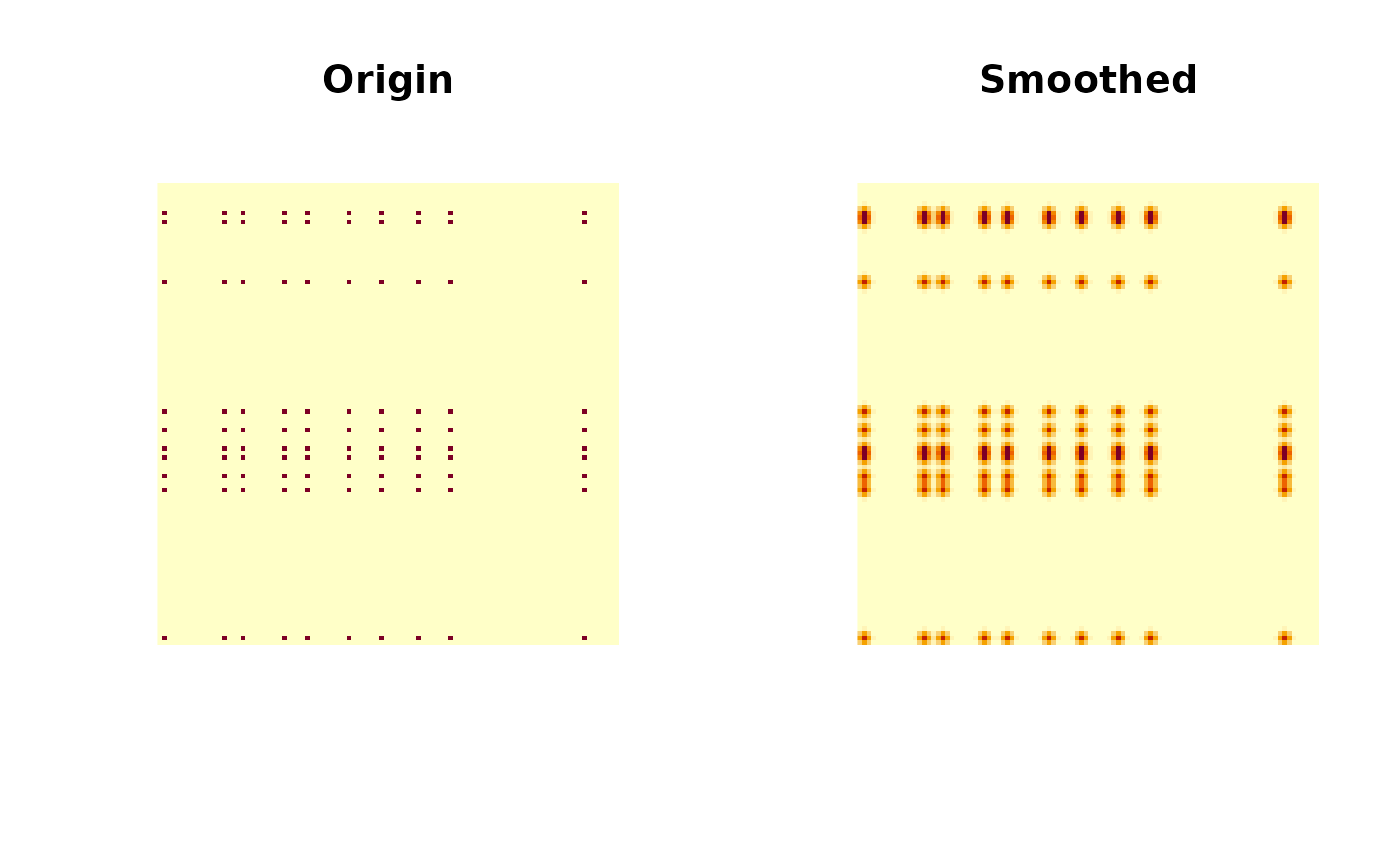
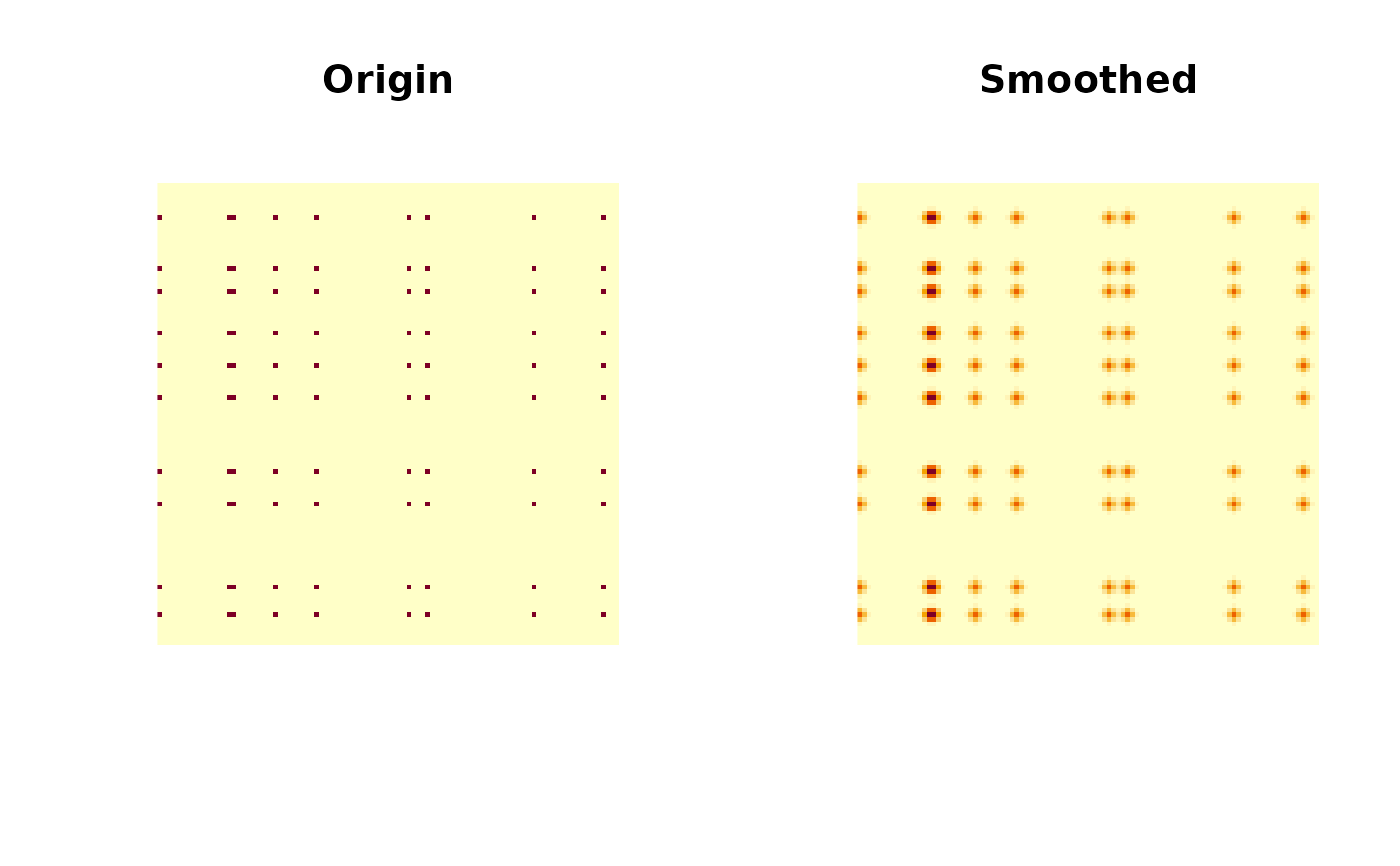
Deploying to gh-pages from @ dipterix/ravetools@0f06febd7f1a9ad9cbc2f0fac226921241c501fc 🚀

diff --git a/reference/color_ramp_continuous.html b/reference/color_ramp_continuous.html
@@ -9,7 +9,7 @@ the given range to the range's endpoints."></head><body>
 
     <a class="navbar-brand me-2" href="../index.html">ravetools</a>
 
-    <small class="nav-text text-muted me-auto" data-bs-toggle="tooltip" data-bs-placement="bottom" title="">0.2.6.3</small>
+    <small class="nav-text text-muted me-auto" data-bs-toggle="tooltip" data-bs-placement="bottom" title="">0.2.6.4</small>
 
 
     <button class="navbar-toggler" type="button" data-bs-toggle="collapse" data-bs-target="#navbar" aria-controls="navbar" aria-expanded="false" aria-label="Toggle navigation">
@@ -85,6 +85,45 @@ alpha-aware ramp)</p></dd>
 color strings, the same length as <code>values</code>.</p>
     </div>
 
+    <div class="section level2">
+    <h2 id="ref-examples">Examples<a class="anchor" aria-label="anchor" href="#ref-examples"></a></h2>
+    <div class="sourceCode"><pre class="sourceCode r"><code><span class="r-in"><span></span></span>
+<span class="r-in"><span><span class="va">x</span> <span class="op">&lt;-</span> <span class="fu"><a href="https://rdrr.io/r/stats/Normal.html" class="external-link">rnorm</a></span><span class="op">(</span><span class="fl">100</span><span class="op">)</span></span></span>
+<span class="r-in"><span><span class="va">col</span> <span class="op">&lt;-</span> <span class="fu">color_ramp_continuous</span><span class="op">(</span><span class="va">x</span><span class="op">)</span></span></span>
+<span class="r-in"><span></span></span>
+<span class="r-in"><span><span class="fu"><a href="https://rdrr.io/r/graphics/plot.default.html" class="external-link">plot</a></span><span class="op">(</span><span class="va">x</span>, col <span class="op">=</span> <span class="va">col</span>, pch <span class="op">=</span> <span class="fl">16</span><span class="op">)</span></span></span>
+<span class="r-plt img"><img src="color_ramp_continuous-1.png" alt="" width="700" height="433"></span>
+<span class="r-in"><span></span></span>
+<span class="r-in"><span></span></span>
+<span class="r-in"><span><span class="co"># Change color palettes with vector of colors</span></span></span>
+<span class="r-in"><span><span class="va">col</span> <span class="op">&lt;-</span> <span class="fu">color_ramp_continuous</span><span class="op">(</span></span></span>
+<span class="r-in"><span>  <span class="va">x</span>, cmap <span class="op">=</span> <span class="fu"><a href="https://rdrr.io/r/base/c.html" class="external-link">c</a></span><span class="op">(</span><span class="st">"lightgreen"</span>, <span class="st">"white"</span>, <span class="st">"pink"</span><span class="op">)</span><span class="op">)</span></span></span>
+<span class="r-in"><span><span class="fu"><a href="https://rdrr.io/r/graphics/plot.default.html" class="external-link">plot</a></span><span class="op">(</span><span class="va">x</span>, col <span class="op">=</span> <span class="va">col</span>, pch <span class="op">=</span> <span class="fl">16</span><span class="op">)</span></span></span>
+<span class="r-plt img"><img src="color_ramp_continuous-2.png" alt="" width="700" height="433"></span>
+<span class="r-in"><span></span></span>
+<span class="r-in"><span><span class="co"># Using colorRamp</span></span></span>
+<span class="r-in"><span><span class="va">col</span> <span class="op">&lt;-</span> <span class="fu">color_ramp_continuous</span><span class="op">(</span></span></span>
+<span class="r-in"><span>  <span class="va">x</span>, cmap <span class="op">=</span> <span class="fu"><a href="https://rdrr.io/r/grDevices/colorRamp.html" class="external-link">colorRamp</a></span><span class="op">(</span><span class="fu"><a href="https://rdrr.io/r/base/c.html" class="external-link">c</a></span><span class="op">(</span><span class="st">"black"</span>, <span class="st">"orangered"</span>, <span class="st">"orange"</span><span class="op">)</span><span class="op">)</span><span class="op">)</span></span></span>
+<span class="r-in"><span><span class="fu"><a href="https://rdrr.io/r/graphics/plot.default.html" class="external-link">plot</a></span><span class="op">(</span><span class="va">x</span>, col <span class="op">=</span> <span class="va">col</span>, pch <span class="op">=</span> <span class="fl">16</span><span class="op">)</span></span></span>
+<span class="r-plt img"><img src="color_ramp_continuous-3.png" alt="" width="700" height="433"></span>
+<span class="r-in"><span></span></span>
+<span class="r-in"><span><span class="co"># Using color ramp palette `function(n) { ... }`</span></span></span>
+<span class="r-in"><span><span class="va">col</span> <span class="op">&lt;-</span> <span class="fu">color_ramp_continuous</span><span class="op">(</span></span></span>
+<span class="r-in"><span>  <span class="va">x</span>, cmap <span class="op">=</span> <span class="va">hcl.colors</span>, palette <span class="op">=</span> <span class="st">"Blue-Red 3"</span><span class="op">)</span></span></span>
+<span class="r-in"><span><span class="fu"><a href="https://rdrr.io/r/graphics/plot.default.html" class="external-link">plot</a></span><span class="op">(</span><span class="va">x</span>, col <span class="op">=</span> <span class="va">col</span>, pch <span class="op">=</span> <span class="fl">16</span><span class="op">)</span></span></span>
+<span class="r-plt img"><img src="color_ramp_continuous-4.png" alt="" width="700" height="433"></span>
+<span class="r-in"><span></span></span>
+<span class="r-in"><span><span class="co"># Set range</span></span></span>
+<span class="r-in"><span><span class="va">col</span> <span class="op">&lt;-</span> <span class="fu">color_ramp_continuous</span><span class="op">(</span></span></span>
+<span class="r-in"><span>  <span class="va">x</span>, clim <span class="op">=</span> <span class="fu"><a href="https://rdrr.io/r/base/c.html" class="external-link">c</a></span><span class="op">(</span><span class="fl">0</span>, <span class="fl">1</span><span class="op">)</span>,</span></span>
+<span class="r-in"><span>  cmap <span class="op">=</span> <span class="fu"><a href="https://rdrr.io/r/base/c.html" class="external-link">c</a></span><span class="op">(</span><span class="st">"black"</span>, <span class="st">"orangered"</span>, <span class="st">"orange"</span><span class="op">)</span><span class="op">)</span></span></span>
+<span class="r-in"><span><span class="fu"><a href="https://rdrr.io/r/graphics/plot.default.html" class="external-link">plot</a></span><span class="op">(</span><span class="va">x</span>, col <span class="op">=</span> <span class="va">col</span>, pch <span class="op">=</span> <span class="fl">16</span><span class="op">)</span></span></span>
+<span class="r-plt img"><img src="color_ramp_continuous-5.png" alt="" width="700" height="433"></span>
+<span class="r-in"><span></span></span>
+<span class="r-in"><span></span></span>
+<span class="r-in"><span></span></span>
+</code></pre></div>
+    </div>
   </main><aside class="col-md-3"><nav id="toc" aria-label="Table of contents"><h2>On this page</h2>
     </nav></aside></div>
 

diff --git a/reference/fast_quantile.html b/reference/fast_quantile.html
@@ -7,7 +7,7 @@
 
     <a class="navbar-brand me-2" href="../index.html">ravetools</a>
 
-    <small class="nav-text text-muted me-auto" data-bs-toggle="tooltip" data-bs-placement="bottom" title="">0.2.6.3</small>
+    <small class="nav-text text-muted me-auto" data-bs-toggle="tooltip" data-bs-placement="bottom" title="">0.2.6.4</small>
 
 
     <button class="navbar-toggler" type="button" data-bs-toggle="collapse" data-bs-target="#navbar" aria-controls="navbar" aria-expanded="false" aria-label="Toggle navigation">
@@ -102,9 +102,9 @@ the number of columns).</p>
 <span class="r-in"><span>  times <span class="op">=</span> <span class="fl">100</span>, unit <span class="op">=</span> <span class="st">"milliseconds"</span></span></span>
 <span class="r-in"><span><span class="op">)</span></span></span>
 <span class="r-out co"><span class="r-pr">#&gt;</span> Unit: milliseconds</span>
-<span class="r-out co"><span class="r-pr">#&gt;</span>         expr      min      lq      mean   median        uq      max neval</span>
-<span class="r-out co"><span class="r-pr">#&gt;</span>  fast_median 0.094290 0.14143 0.1583625 0.158391 0.1750750 0.199206   100</span>
-<span class="r-out co"><span class="r-pr">#&gt;</span>  base_median 0.093769 0.11096 0.1395649 0.129988 0.1560015 0.312544   100</span>
+<span class="r-out co"><span class="r-pr">#&gt;</span>         expr      min        lq      mean    median       uq      max neval</span>
+<span class="r-out co"><span class="r-pr">#&gt;</span>  fast_median 0.100879 0.1473885 0.1616883 0.1617550 0.176132 0.237683   100</span>
+<span class="r-out co"><span class="r-pr">#&gt;</span>  base_median 0.098456 0.1134890 0.1418071 0.1292665 0.160934 0.282849   100</span>
 <span class="r-in"><span></span></span>
 <span class="r-in"><span><span class="co"># Multivariate cases</span></span></span>
 <span class="r-in"><span><span class="co"># (5~7x faster than base R)</span></span></span>
@@ -118,8 +118,8 @@ the number of columns).</p>
 <span class="r-in"><span><span class="op">)</span></span></span>
 <span class="r-out co"><span class="r-pr">#&gt;</span> Unit: milliseconds</span>
 <span class="r-out co"><span class="r-pr">#&gt;</span>         expr      min       lq      mean    median       uq      max neval</span>
-<span class="r-out co"><span class="r-pr">#&gt;</span>  fast_median 0.812346 0.835060 0.9304711 0.8578935 0.913216 1.273792    10</span>
-<span class="r-out co"><span class="r-pr">#&gt;</span>  base_median 2.853918 2.880949 2.9516842 2.9390340 2.988768 3.079112    10</span>
+<span class="r-out co"><span class="r-pr">#&gt;</span>  fast_median 0.774770 0.812076 0.8626455 0.8330565 0.856711 1.139231    10</span>
+<span class="r-out co"><span class="r-pr">#&gt;</span>  base_median 2.882749 2.908377 2.9500735 2.9341195 2.973073 3.087022    10</span>
 <span class="r-in"><span></span></span>
 </code></pre></div>
     </div>

diff --git a/reference/collapse.html b/reference/collapse.html
@@ -7,7 +7,7 @@
 
     <a class="navbar-brand me-2" href="../index.html">ravetools</a>
 
-    <small class="nav-text text-muted me-auto" data-bs-toggle="tooltip" data-bs-placement="bottom" title="">0.2.6.3</small>
+    <small class="nav-text text-muted me-auto" data-bs-toggle="tooltip" data-bs-placement="bottom" title="">0.2.6.4</small>
 
 
     <button class="navbar-toggler" type="button" data-bs-toggle="collapse" data-bs-target="#navbar" aria-controls="navbar" aria-expanded="false" aria-label="Toggle navigation">
@@ -124,8 +124,8 @@ collapsing dimensions</p>
 <span class="r-in"><span><span class="op">)</span></span></span>
 <span class="r-out co"><span class="r-pr">#&gt;</span> Unit: microseconds</span>
 <span class="r-out co"><span class="r-pr">#&gt;</span>     expr     min      lq    mean  median      uq     max neval</span>
-<span class="r-out co"><span class="r-pr">#&gt;</span>   result 529.657 529.657 529.657 529.657 529.657 529.657     1</span>
-<span class="r-out co"><span class="r-pr">#&gt;</span>  compare 469.758 469.758 469.758 469.758 469.758 469.758     1</span>
+<span class="r-out co"><span class="r-pr">#&gt;</span>   result 489.116 489.116 489.116 489.116 489.116 489.116     1</span>
+<span class="r-out co"><span class="r-pr">#&gt;</span>  compare 320.816 320.816 320.816 320.816 320.816 320.816     1</span>
 <span class="r-in"><span></span></span>
 <span class="r-in"><span><span class="co"># large data big difference</span></span></span>
 <span class="r-in"><span><span class="va">x</span> <span class="op">=</span> <span class="fu"><a href="https://rdrr.io/r/base/array.html" class="external-link">array</a></span><span class="op">(</span><span class="fu"><a href="https://rdrr.io/r/stats/Normal.html" class="external-link">rnorm</a></span><span class="op">(</span><span class="fu"><a href="https://rdrr.io/r/base/prod.html" class="external-link">prod</a></span><span class="op">(</span><span class="fl">300</span>,<span class="fl">200</span>,<span class="fl">105</span><span class="op">)</span><span class="op">)</span>, <span class="fu"><a href="https://rdrr.io/r/base/c.html" class="external-link">c</a></span><span class="op">(</span><span class="fl">300</span>,<span class="fl">200</span>,<span class="fl">105</span>,<span class="fl">1</span><span class="op">)</span><span class="op">)</span></span></span>
@@ -137,8 +137,8 @@ collapsing dimensions</p>
 <span class="r-in"><span>  <span class="op">}</span><span class="op">)</span></span></span>
 <span class="r-out co"><span class="r-pr">#&gt;</span> Unit: milliseconds</span>
 <span class="r-out co"><span class="r-pr">#&gt;</span>     expr       min        lq      mean    median        uq       max neval</span>
-<span class="r-out co"><span class="r-pr">#&gt;</span>   result  23.19547  23.19547  23.19547  23.19547  23.19547  23.19547     1</span>
-<span class="r-out co"><span class="r-pr">#&gt;</span>  compare 207.97203 207.97203 207.97203 207.97203 207.97203 207.97203     1</span>
+<span class="r-out co"><span class="r-pr">#&gt;</span>   result  23.30381  23.30381  23.30381  23.30381  23.30381  23.30381     1</span>
+<span class="r-out co"><span class="r-pr">#&gt;</span>  compare 208.91861 208.91861 208.91861 208.91861 208.91861 208.91861     1</span>
 <span class="r-in"><span></span></span>
 <span class="r-in"><span><span class="co"># }</span></span></span>
 <span class="r-in"><span></span></span>

diff --git a/reference/baseline_array.html b/reference/baseline_array.html
@@ -9,7 +9,7 @@ contrast."></head><body>
 
     <a class="navbar-brand me-2" href="../index.html">ravetools</a>
 
-    <small class="nav-text text-muted me-auto" data-bs-toggle="tooltip" data-bs-placement="bottom" title="">0.2.6.3</small>
+    <small class="nav-text text-muted me-auto" data-bs-toggle="tooltip" data-bs-placement="bottom" title="">0.2.6.4</small>
 
 
     <button class="navbar-toggler" type="button" data-bs-toggle="collapse" data-bs-target="#navbar" aria-controls="navbar" aria-expanded="false" aria-label="Toggle navigation">
@@ -227,8 +227,8 @@ $$</p></dd>
 <span class="r-in"><span><span class="fu">microbenchmark</span><span class="fu">::</span><span class="fu"><a href="https://rdrr.io/pkg/microbenchmark/man/microbenchmark.html" class="external-link">microbenchmark</a></span><span class="op">(</span><span class="fu">f1</span><span class="op">(</span><span class="op">)</span>, <span class="fu">f2</span><span class="op">(</span><span class="op">)</span>, times <span class="op">=</span> <span class="fl">10L</span><span class="op">)</span></span></span>
 <span class="r-out co"><span class="r-pr">#&gt;</span> Unit: milliseconds</span>
 <span class="r-out co"><span class="r-pr">#&gt;</span>  expr        min         lq      mean     median        uq       max neval</span>
-<span class="r-out co"><span class="r-pr">#&gt;</span>  f1() 102.314227 108.885416 148.24557 113.116754 208.20462 211.28841    10</span>
-<span class="r-out co"><span class="r-pr">#&gt;</span>  f2()   8.376439   8.549361  10.05744   9.665201  11.23751  13.34521    10</span>
+<span class="r-out co"><span class="r-pr">#&gt;</span>  f1() 100.410873 106.713477 142.50888 110.937366 195.73059 199.39575    10</span>
+<span class="r-out co"><span class="r-pr">#&gt;</span>  f2()   8.352668   8.899698  10.10515   9.751789  11.05787  12.80387    10</span>
 <span class="r-in"><span></span></span>
 <span class="r-in"><span><span class="co"># }</span></span></span>
 <span class="r-in"><span></span></span>

diff --git a/reference/fast_cov.html b/reference/fast_cov.html
@@ -11,7 +11,7 @@ no NA handling)."></head><body>
 
     <a class="navbar-brand me-2" href="../index.html">ravetools</a>
 
-    <small class="nav-text text-muted me-auto" data-bs-toggle="tooltip" data-bs-placement="bottom" title="">0.2.6.3</small>
+    <small class="nav-text text-muted me-auto" data-bs-toggle="tooltip" data-bs-placement="bottom" title="">0.2.6.4</small>
 
 
     <button class="navbar-toggler" type="button" data-bs-toggle="collapse" data-bs-target="#navbar" aria-controls="navbar" aria-expanded="false" aria-label="Toggle navigation">
@@ -125,8 +125,8 @@ resulting covariance matrices.</p>
 <span class="r-in"><span><span class="op">)</span></span></span>
 <span class="r-out co"><span class="r-pr">#&gt;</span> Unit: milliseconds</span>
 <span class="r-out co"><span class="r-pr">#&gt;</span>      expr      min       lq     mean   median       uq      max neval</span>
-<span class="r-out co"><span class="r-pr">#&gt;</span>  fast_cov 1.485546 1.494670 1.712472 1.507970 1.548009 3.522722    10</span>
-<span class="r-out co"><span class="r-pr">#&gt;</span>       cov 6.528645 6.556226 6.578891 6.582535 6.594793 6.637457    10</span>
+<span class="r-out co"><span class="r-pr">#&gt;</span>  fast_cov 1.475821 1.486376 1.558022 1.492795 1.498344 2.163722    10</span>
+<span class="r-out co"><span class="r-pr">#&gt;</span>       cov 6.524103 6.549561 6.570142 6.569971 6.589961 6.624131    10</span>
 <span class="r-in"><span></span></span>
 <span class="r-in"><span><span class="co"># }</span></span></span>
 <span class="r-in"><span></span></span>

diff --git a/404.html b/404.html
@@ -20,7 +20,7 @@
 
     <a class="navbar-brand me-2" href="https://dipterix.org/ravetools/index.html">ravetools</a>
 
-    <small class="nav-text text-muted me-auto" data-bs-toggle="tooltip" data-bs-placement="bottom" title="">0.2.6.3</small>
+    <small class="nav-text text-muted me-auto" data-bs-toggle="tooltip" data-bs-placement="bottom" title="">0.2.6.4</small>
 
 
     <button class="navbar-toggler" type="button" data-bs-toggle="collapse" data-bs-target="#navbar" aria-controls="navbar" aria-expanded="false" aria-label="Toggle navigation">

diff --git a/authors.html b/authors.html
@@ -7,7 +7,7 @@
 
     <a class="navbar-brand me-2" href="index.html">ravetools</a>
 
-    <small class="nav-text text-muted me-auto" data-bs-toggle="tooltip" data-bs-placement="bottom" title="">0.2.6.3</small>
+    <small class="nav-text text-muted me-auto" data-bs-toggle="tooltip" data-bs-placement="bottom" title="">0.2.6.4</small>
 
 
     <button class="navbar-toggler" type="button" data-bs-toggle="collapse" data-bs-target="#navbar" aria-controls="navbar" aria-expanded="false" aria-label="Toggle navigation">

diff --git a/index.html b/index.html
@@ -22,7 +22,7 @@
 
     <a class="navbar-brand me-2" href="index.html">ravetools</a>
 
-    <small class="nav-text text-muted me-auto" data-bs-toggle="tooltip" data-bs-placement="bottom" title="">0.2.6.3</small>
+    <small class="nav-text text-muted me-auto" data-bs-toggle="tooltip" data-bs-placement="bottom" title="">0.2.6.4</small>
 
 
     <button class="navbar-toggler" type="button" data-bs-toggle="collapse" data-bs-target="#navbar" aria-controls="navbar" aria-expanded="false" aria-label="Toggle navigation">

diff --git a/installation.html b/installation.html
@@ -7,7 +7,7 @@
 
     <a class="navbar-brand me-2" href="index.html">ravetools</a>
 
-    <small class="nav-text text-muted me-auto" data-bs-toggle="tooltip" data-bs-placement="bottom" title="">0.2.6.3</small>
+    <small class="nav-text text-muted me-auto" data-bs-toggle="tooltip" data-bs-placement="bottom" title="">0.2.6.4</small>
 
 
     <button class="navbar-toggler" type="button" data-bs-toggle="collapse" data-bs-target="#navbar" aria-controls="navbar" aria-expanded="false" aria-label="Toggle navigation">

diff --git a/news/index.html b/news/index.html
@@ -7,7 +7,7 @@
 
     <a class="navbar-brand me-2" href="../index.html">ravetools</a>
 
-    <small class="nav-text text-muted me-auto" data-bs-toggle="tooltip" data-bs-placement="bottom" title="">0.2.6.3</small>
+    <small class="nav-text text-muted me-auto" data-bs-toggle="tooltip" data-bs-placement="bottom" title="">0.2.6.4</small>
 
 
     <button class="navbar-toggler" type="button" data-bs-toggle="collapse" data-bs-target="#navbar" aria-controls="navbar" aria-expanded="false" aria-label="Toggle navigation">

diff --git a/reference/band_pass.html b/reference/band_pass.html
@@ -7,7 +7,7 @@
 
     <a class="navbar-brand me-2" href="../index.html">ravetools</a>
 
-    <small class="nav-text text-muted me-auto" data-bs-toggle="tooltip" data-bs-placement="bottom" title="">0.2.6.3</small>
+    <small class="nav-text text-muted me-auto" data-bs-toggle="tooltip" data-bs-placement="bottom" title="">0.2.6.4</small>
 
 
     <button class="navbar-toggler" type="button" data-bs-toggle="collapse" data-bs-target="#navbar" aria-controls="navbar" aria-expanded="false" aria-label="Toggle navigation">

diff --git a/reference/butter_max_order.html b/reference/butter_max_order.html
@@ -11,7 +11,7 @@ filter has a stable AR component."></head><body>
 
     <a class="navbar-brand me-2" href="../index.html">ravetools</a>
 
-    <small class="nav-text text-muted me-auto" data-bs-toggle="tooltip" data-bs-placement="bottom" title="">0.2.6.3</small>
+    <small class="nav-text text-muted me-auto" data-bs-toggle="tooltip" data-bs-placement="bottom" title="">0.2.6.4</small>
 
 
     <button class="navbar-toggler" type="button" data-bs-toggle="collapse" data-bs-target="#navbar" aria-controls="navbar" aria-expanded="false" aria-label="Toggle navigation">